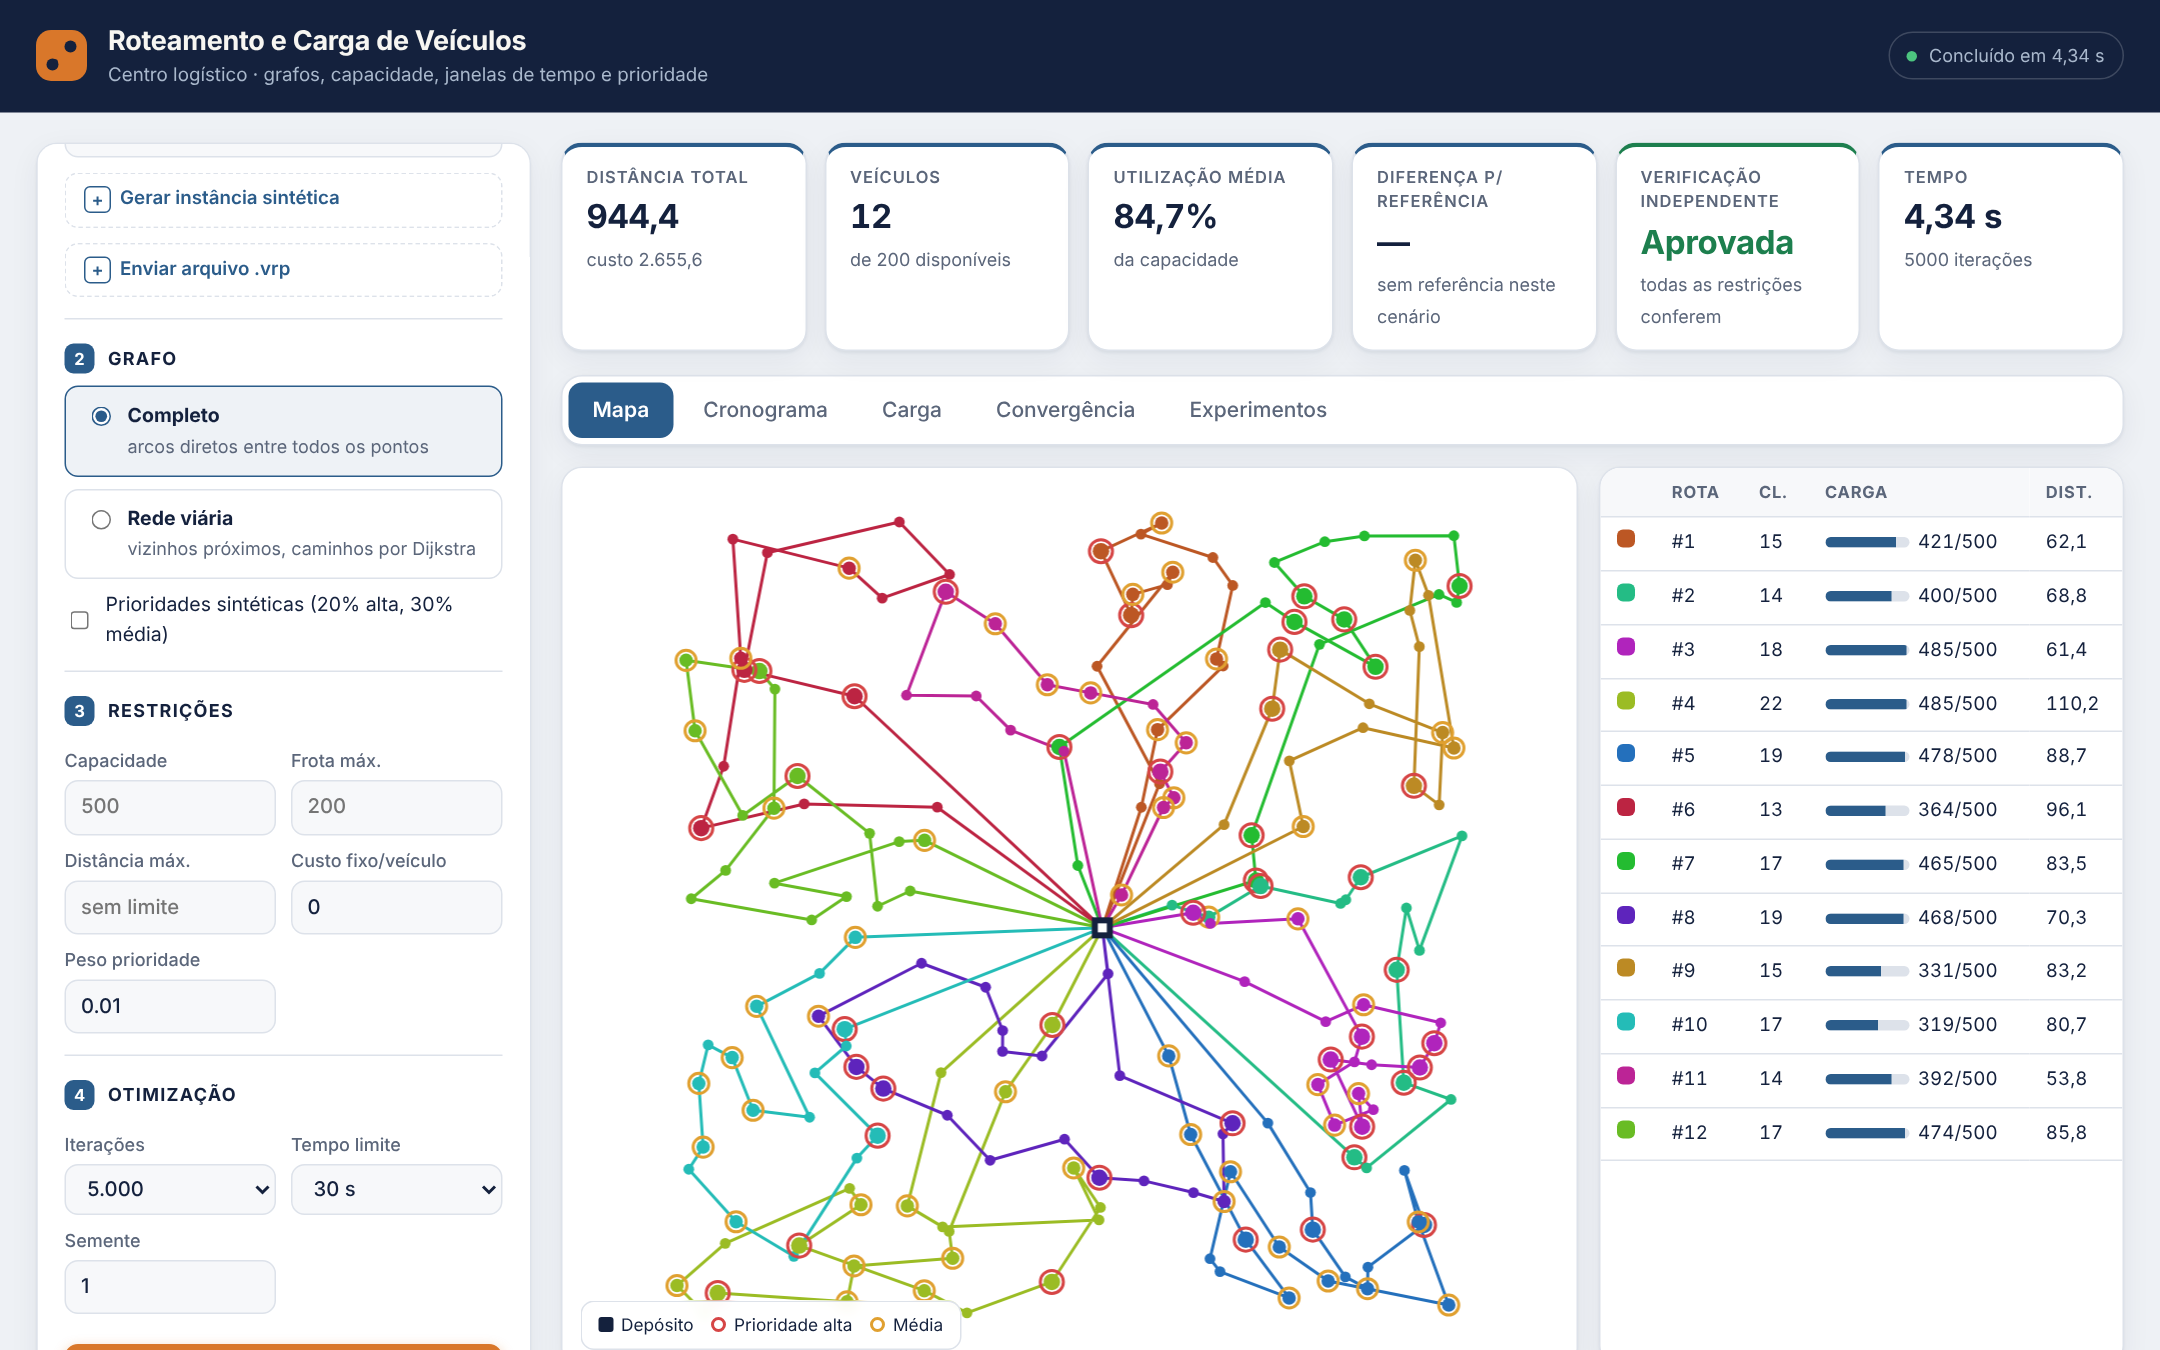
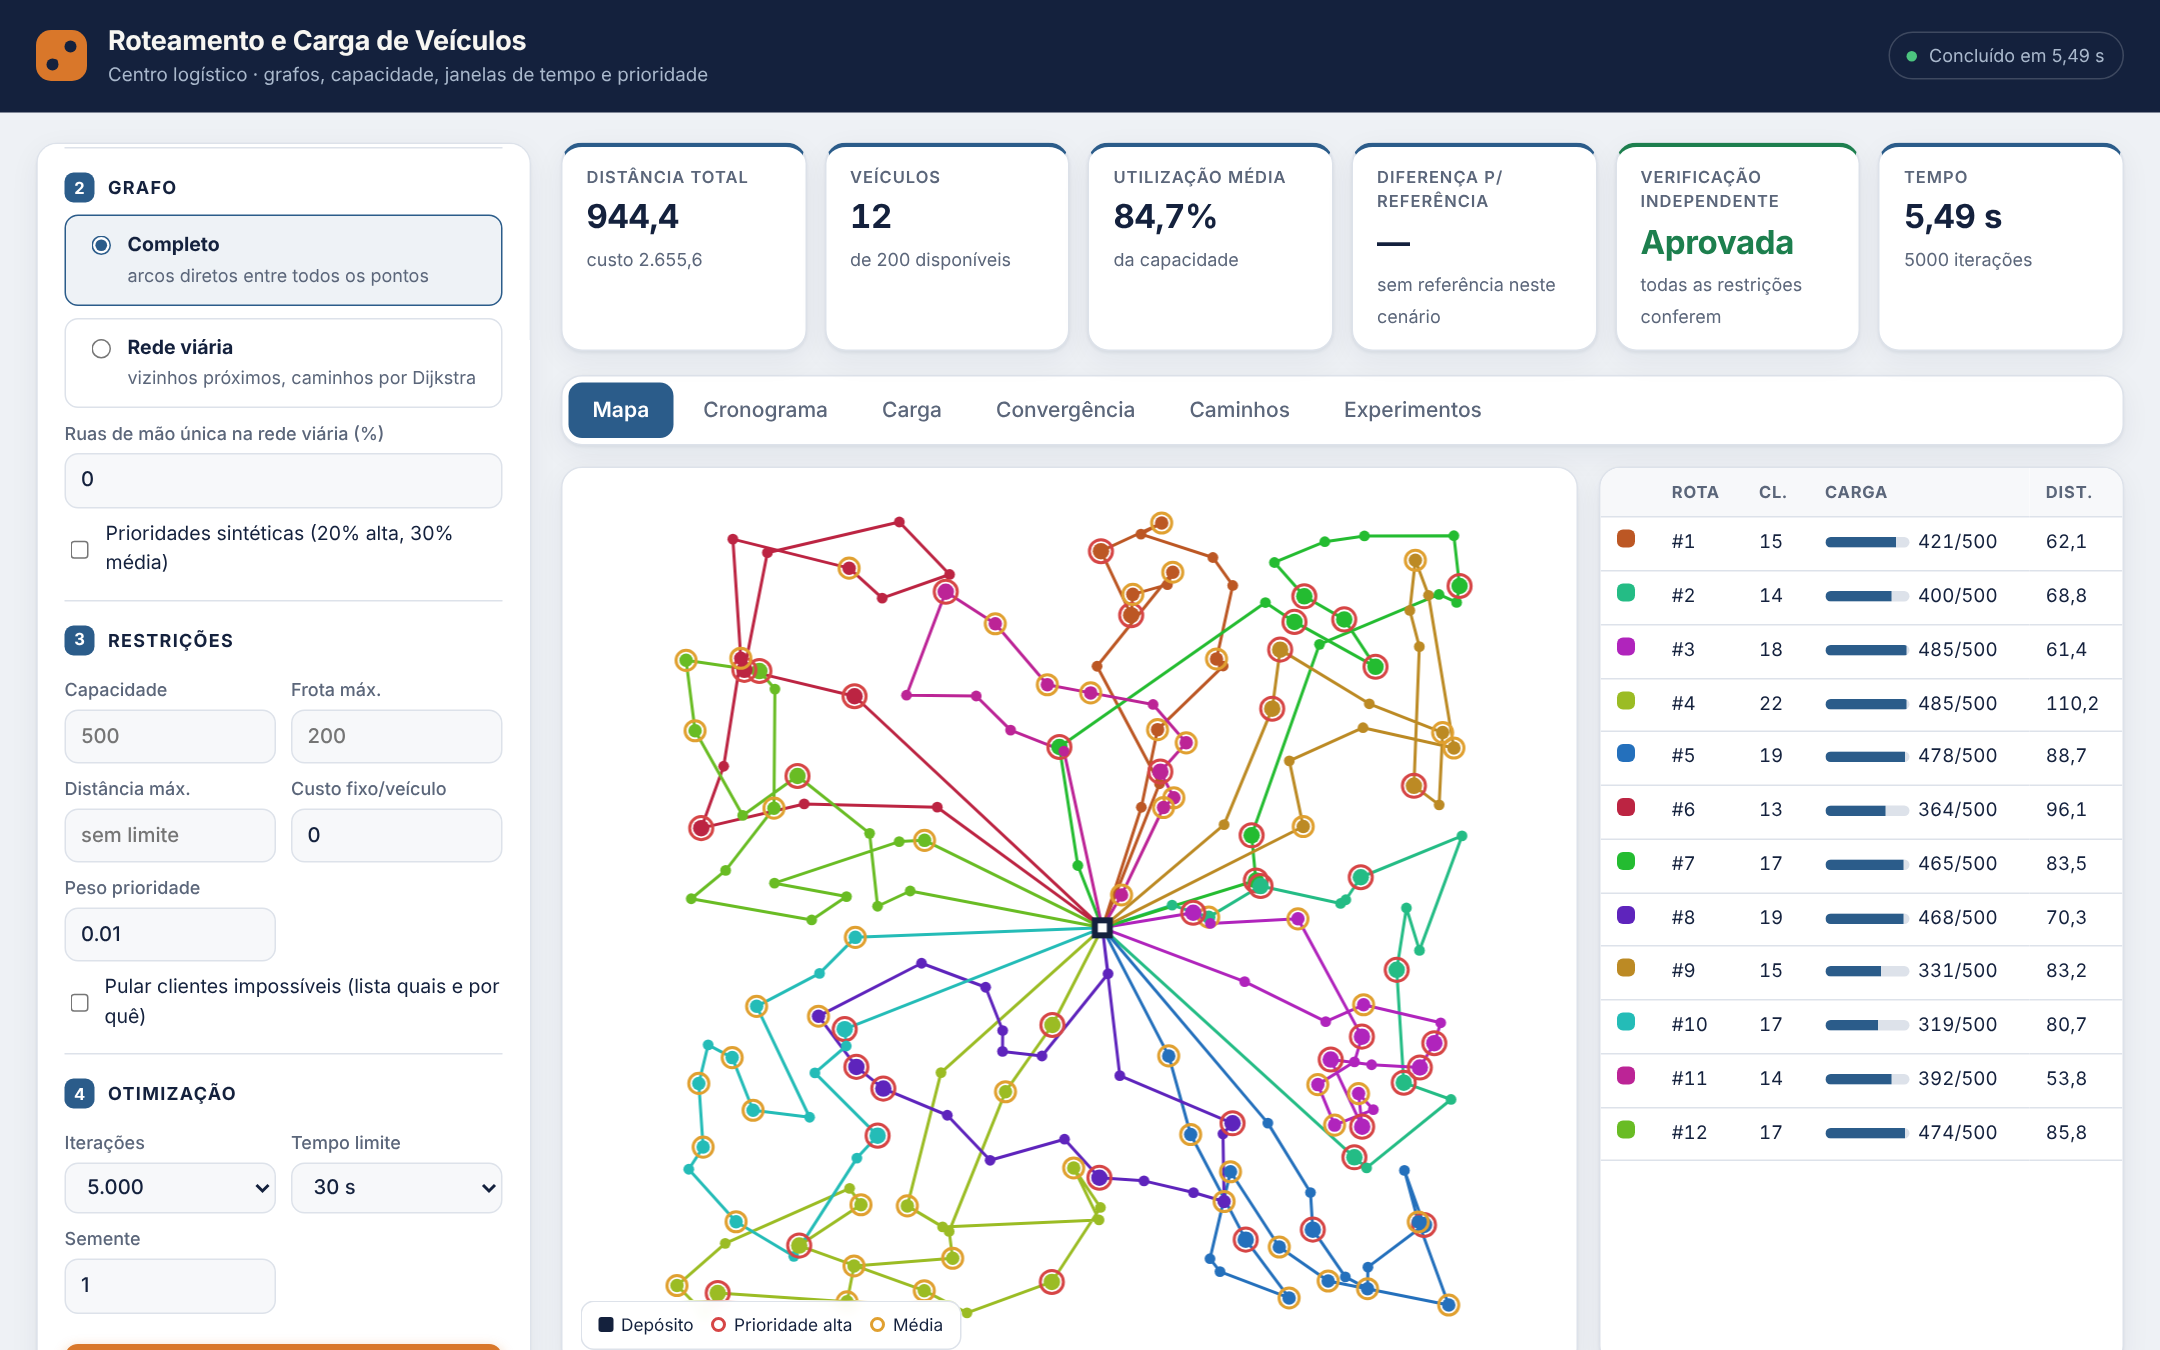
Prints atualizados (painel novo) e print da aba Caminhos

diff --git a/scripts/capturar_telas.py b/scripts/capturar_telas.py
@@ -57,6 +57,14 @@ def capturar():
         pagina.wait_for_timeout(500)
         topo(pagina)
         pagina.screenshot(path=os.path.join(OUT, "tela_viario.png"))
+        pagina.click("button[data-aba=caminhos]")
+        pagina.fill("#c-origem", "0")
+        pagina.fill("#c-destino", "30")
+        pagina.click("#b-caminho")
+        pagina.wait_for_function("document.getElementById('estado').innerText === 'Caminhos calculados'", timeout=60000)
+        pagina.wait_for_timeout(400)
+        topo(pagina)
+        pagina.screenshot(path=os.path.join(OUT, "tela_caminhos.png"))
         navegador.close()
     servidor.shutdown()
 
